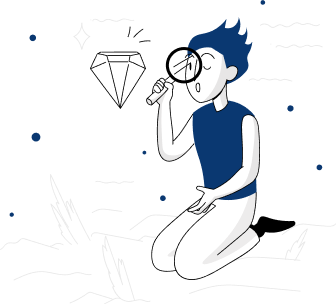
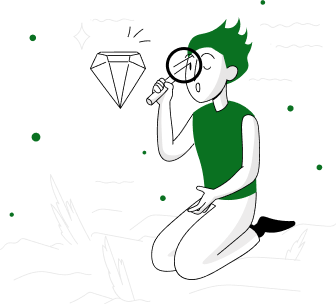
Version Verde

diff --git a/style.css b/style.css
@@ -1,5 +1,5 @@
 body {
-    background: #E5E5E5;
+    background: #8b9b8b;
     font-family: 'Open Sans', sans-serif;
 }
 .logo {
@@ -24,7 +24,7 @@ body {
     display: inline-block;
     font-size: 1.1em;
     font-weight: bold;
-    color: #0A3871;
+    color: #d0f5d8;
 }
 .linkedinimg{
     display: inline-block;
@@ -74,7 +74,7 @@ body {
     outline: none;
     overflow-y: auto;
     font-size: 30px;
-    color: blue;
+    color: green;
     padding: 20px 20px 20px 30px;
     background-color: #fcf7f7;
 
@@ -97,7 +97,7 @@ body {
     content: "Ingrese el texto aqui";
     font-size: 30px;
     opacity: 40%;
-    color: blue;
+    color: green;
 }
 #caja-texto {
     display: none;
@@ -115,13 +115,13 @@ body {
     margin: 0 auto;
 }
 #boton-encriptar{
-    background-color: #0A3871;
+    background-color: #0A7121;
     color: #D8DFE8;
 
 }
 #boton-desencriptar {
     background-color: #D8DFE8;
-    color: #0A3871;
+    color: #0A7121;
 }
 #boton-desencriptar, #boton-encriptar { 
     margin: 15px;
